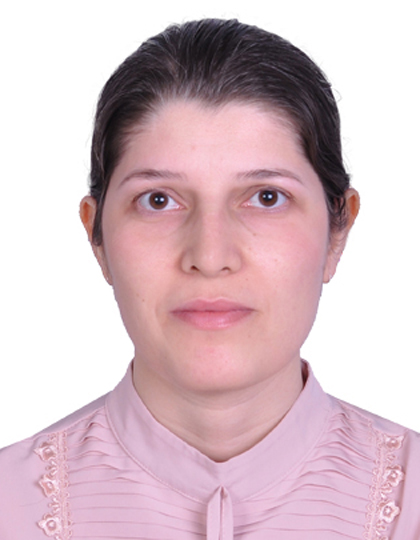
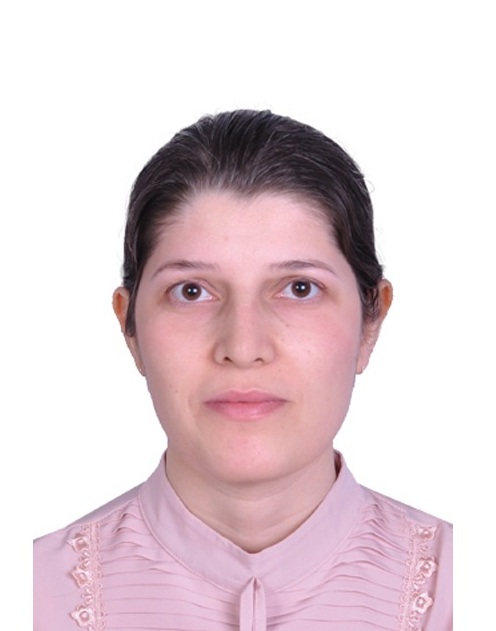
Erik photo is updated

diff --git a/content/publication/c39/index.md b/content/publication/c39/index.md
@@ -21,36 +21,23 @@ publication_types: ["1"]
 publication: "*GRAPP/IVAPP *"
 publication_short: ""
 
-abstract: "In this article, we present the construction
-of an interactive multilevel focus+context visualization
-framework for the navigation and exploration of largescale 2D and 3D images. The presented framework utilizes a balanced multiresolution (BMR) technique supported by a balanced wavelet transform (BWT). It extends the mode of focus+context visualization, where
-spatially separate magnification of regions of interest
-(ROIs) is performed, as opposed to in-place magnification. Each resulting visualization scenario resembles a
-tree structure, where the root constitutes the main context, each non-root internal node plays the dual roles of
-both focus and context, and each leaf solely represents
-a focus. Our developed prototype supports interactive
-manipulation of the visualization hierarchy, such as addition and deletion of ROIs and desired changes in their
-resolutions at any level of the hierarchy on the fly. We
-describe the underlying data structure to efficiently support such operations. Changes in the spatial locations
-of query windows defining the ROIs trigger on-demand
-reconstruction queries. We explain in detail how to efficiently process such reconstruction queries within the
-hierarchy of details (wavelet coefficients) contained in
-the BWT in order to ensure real-time feedback. As the
-BWT need only be constructed once in a preprocessing
-phase on the server-side and robust on-demand reconstruction queries require minimal data communication
-overhead, our presented framework is a suitable candidate for efficient web-based visualization of complex
-large-scale imagery. We also discuss the performance
-characteristics of our proposed framework from various aspects, such as time and space complexities and
-achieved frame rates."
+abstract: "In this paper, we introduce a hierarchical indexing for adjacency queries specially for applying subdivision
+ schemes on somesimple spherical and toroidal polyhedrons as the base model for the content creation process.
+ The indexing method is created from integer coordinates of regular 2D domains (connectivity maps) resulting
+ from unfolding polyhedrons. All connectivities are found using algebraic relationships of the connectivity
+ map’s indices; therefore, no additional data structure is required and operations are extremely fast and efficient.
+ Although connectivity relationships of the polyhedrons are as simple as the first resolution, the models created
+ by our proposed method is not restricted to the subdivided polyhedrons. Using our connectivity based method,
+ complex objects can be created by adding sharp features and holes and applying deformation and remeshing
+ techniques. We demonstrate capacities and the efficiency of the method with several example results and
+ compare its speed with that of the half-edge data structure."
 
 # Summary. An optional shortened abstract.
-summary: "In this article, we present the construction
-of an interactive multilevel focus+context visualization
-framework for the navigation and exploration of largescale 2D and 3D images. The presented framework utilizes a balanced multiresolution (BMR) technique supported by a balanced wavelet transform (BWT). It extends the mode of focus+context visualization, where
-spatially separate magnification of regions of interest
-(ROIs) is performed, as opposed to in-place magnification. Each resulting visualization scenario resembles a
-tree structure, where the root constitutes the main context, each non-root internal node plays the dual roles of
-both focus and context, and each leaf solely represents a focus."
+summary: "In this paper, we introduce a hierarchical indexing for adjacency queries specially for applying subdivision
+ schemes on somesimple spherical and toroidal polyhedrons as the base model for the content creation process.
+ The indexing method is created from integer coordinates of regular 2D domains (connectivity maps) resulting
+ from unfolding polyhedrons. All connectivities are found using algebraic relationships of the connectivity
+ map’s ..."
 
 tags: []
 featured: false

diff --git a/content/publication/j79/index.md b/content/publication/j79/index.md
@@ -41,7 +41,7 @@ url_poster: ''
 url_project: ''
 url_slides: ''
 url_source: ''
-url_video: ''
+url_video: 'https://youtu.be/huJe6lL5Tm0'
 
 # Featured image
 # To use, add an image named `featured.jpg/png` to your page's folder. 
